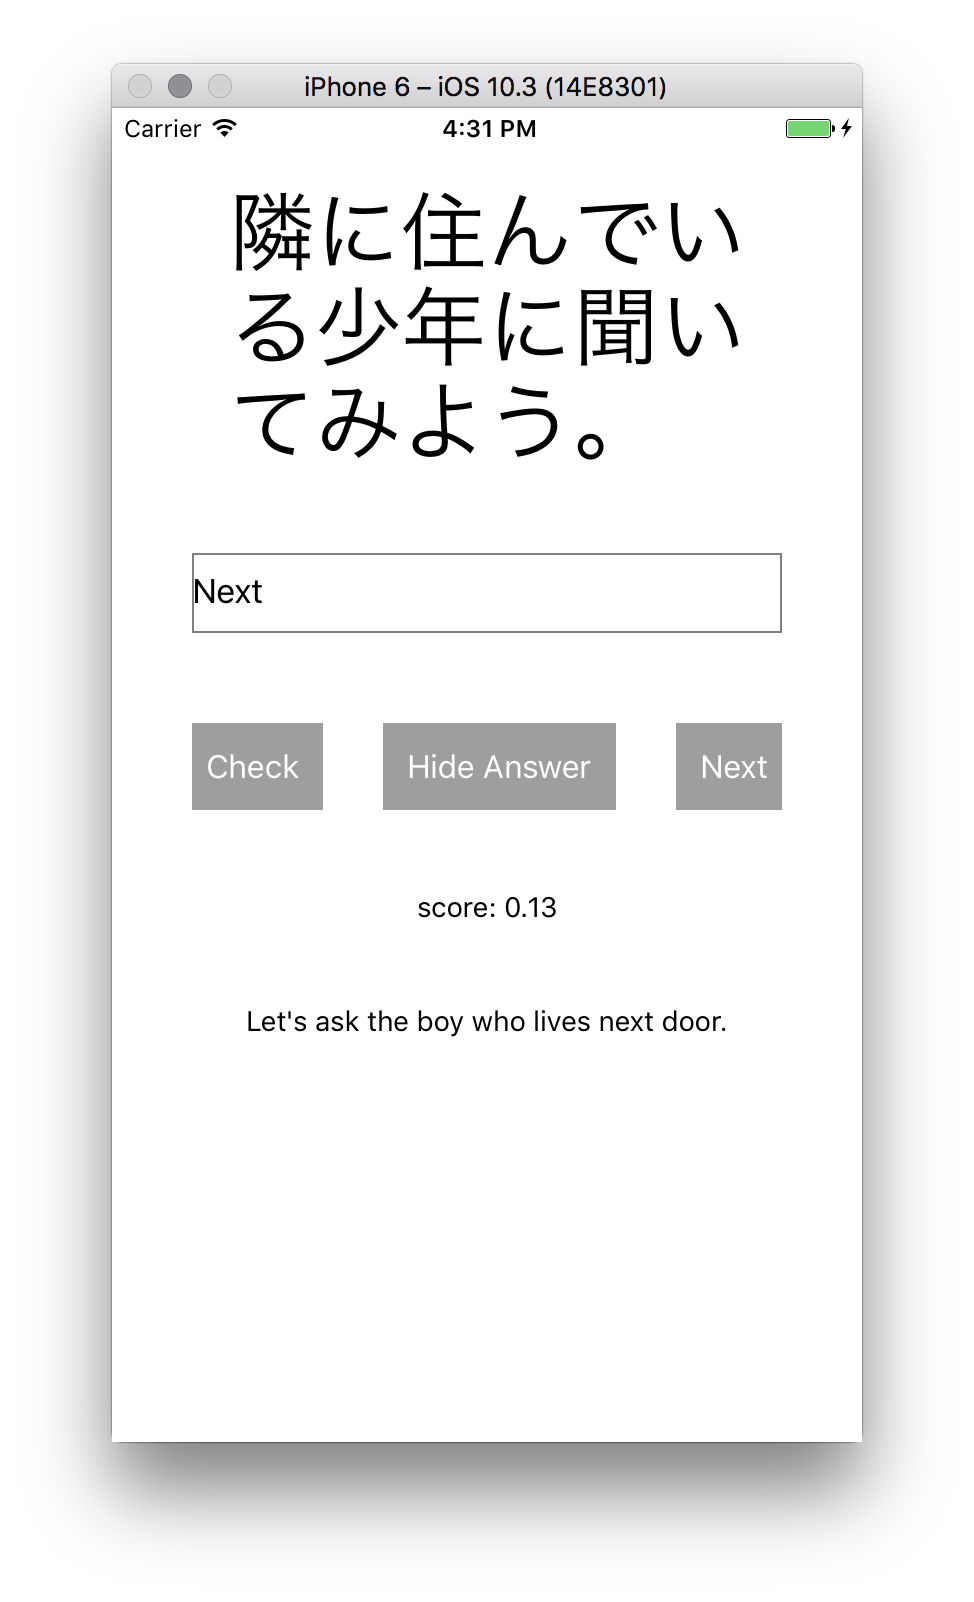
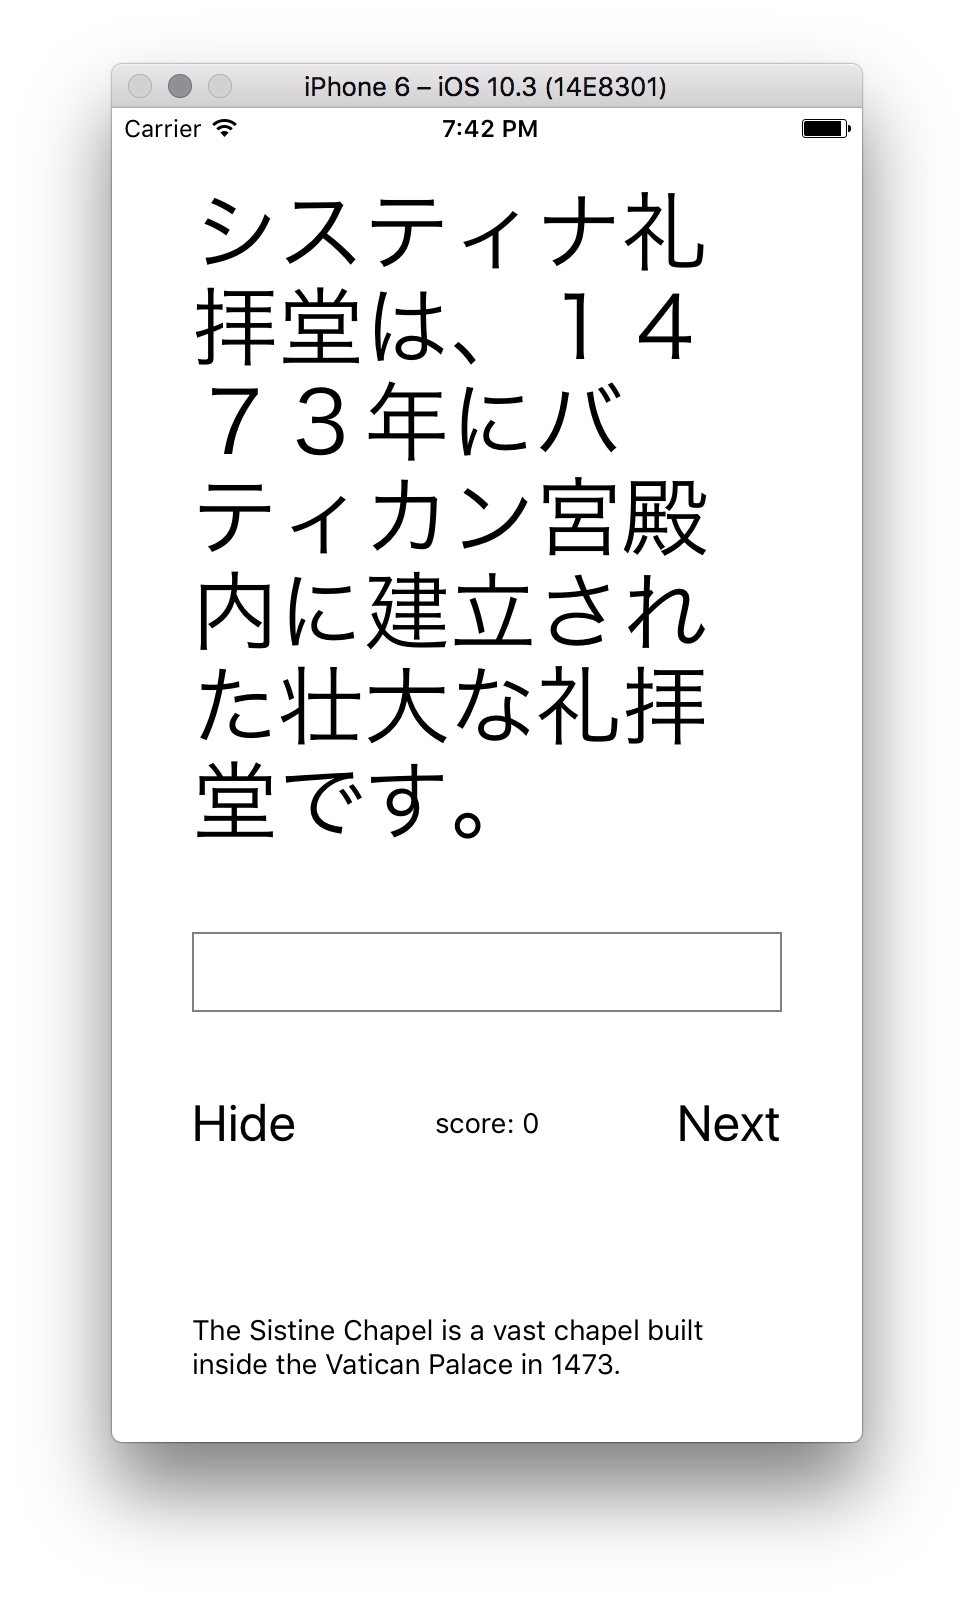
more design

diff --git a/nekoapp/app/components/Main.js b/nekoapp/app/components/Main.js
@@ -23,25 +23,25 @@ export default class Main extends Component {
   }
 
   tokenize (s) {
-    return s.toLowerCase().split(/\W+/).filter(e => {
-      return e.length > 1
+    return s.toLowerCase().split(/[\s"'_\.-]+/).filter(e => {
+      return e.length > 0
     })
   }
 
-  evaluate () {
+  evaluate (sentence, text) {
     let answer = {}
     let total = 0
-    for (let s of this.tokenize(this.state.sentence.a)) {
+    for (let s of this.tokenize(sentence.a)) {
       answer[s] = true
       total++
     }
     let score = 0
-    for (let s of this.tokenize(this.state.text)) {
+    for (let s of this.tokenize(text)) {
       if (answer[s]) {
         score++
       }
     }
-    this.setState({ score: (score / total).toFixed(2) })
+    return (score / total).toFixed(2)
   }
 
   render () {
@@ -60,60 +60,76 @@ export default class Main extends Component {
     }
 
     return (
-      <View style={{ flex: 1, padding: 40 }}>
+      <View style={{ flex: 1 }}>
         <ScrollView>
           <View
-            style={{ flex: 1, alignItems: 'center', justifyContent: 'center' }}
+            style={{
+              justifyContent: 'center',
+              padding: 40
+            }}
           >
             <View>
               <Text h1 onPress={e => speak(sentence.q)}>
                 {sentence.q}
               </Text>
             </View>
-            <Divider style={{ backgroundColor: '#000', height: 40 }} />
+            <Divider style={{ backgroundColor: '#fff', height: 40 }} />
             <TextInput
+              autoCapitalize="none"
               style={{ height: 40, borderColor: 'gray', borderWidth: 1 }}
-              onChangeText={text => this.setState({ text })}
+              onChangeText={text => {
+                this.setState({
+                  text: text,
+                  score: this.evaluate(sentence, text)
+                })
+              }}
               value={this.state.text}
             />
-            <Divider style={{ backgroundColor: '#000', height: 40 }} />
+            <Divider style={{ backgroundColor: '#fff', height: 40 }} />
             <View
               style={{
                 flex: 1,
                 flexDirection: 'row',
-                justifyContent: 'space-between'
+                justifyContent: 'space-between',
+                alignItems: 'center'
               }}
             >
-              <Button
-                title="Check"
-                style={{ paddingTop: 5 }}
-                onPress={() => this.evaluate()}
-              />
-
-              <Button
-                title={this.state.toggleDebug ? 'Hide Answer' : 'Show Answer'}
-                style={{ paddingTop: 5 }}
+              <TouchableHighlight
+                underlayColor="gray"
                 onPress={() => {
-                  this.setState({ toggleDebug: !this.state.toggleDebug })
+                  this.setState({ showAnswer: !this.state.showAnswer })
                 }}
-              />
+              >
+                <View>
+                  <Text h4>{this.state.showAnswer ? 'Hide' : 'Show'}</Text>
+                </View>
+              </TouchableHighlight>
+              <View style={{ flex: 1, alignItems: 'center' }}>
+                <Text h8>
+                  score: {this.state.score}
+                </Text>
 
-              <Button
-                title="Next"
-                style={{ paddingTop: 5 }}
+              </View>
+              <TouchableHighlight
+                underlayColor="gray"
                 onPress={() =>
-                  this.setState({ sentence: data.pick(), text: '', score: 0 })}
-              />
-
+                  this.setState({
+                    sentence: data.pick(),
+                    text: '',
+                    score: 0,
+                    showAnswer: false
+                  })}
+              >
+                <View>
+                  <Text h4>Next</Text>
+                </View>
+              </TouchableHighlight>
             </View>
-            <Divider style={{ backgroundColor: '#000', height: 40 }} />
-            <Text h8>
-              score: {this.state.score}
-            </Text>
+            <Divider style={{ backgroundColor: '#fff', height: 40 }} />
 
-            <Divider style={{ backgroundColor: '#000', height: 40 }} />
+            <Divider style={{ backgroundColor: '#fff', height: 40 }} />
             <Text h8>
-              {this.state.toggleDebug ? sentence.a : ''}
+              {this.state.showAnswer ? sentence.a : ''}
             </Text>
           </View>
         </ScrollView>
